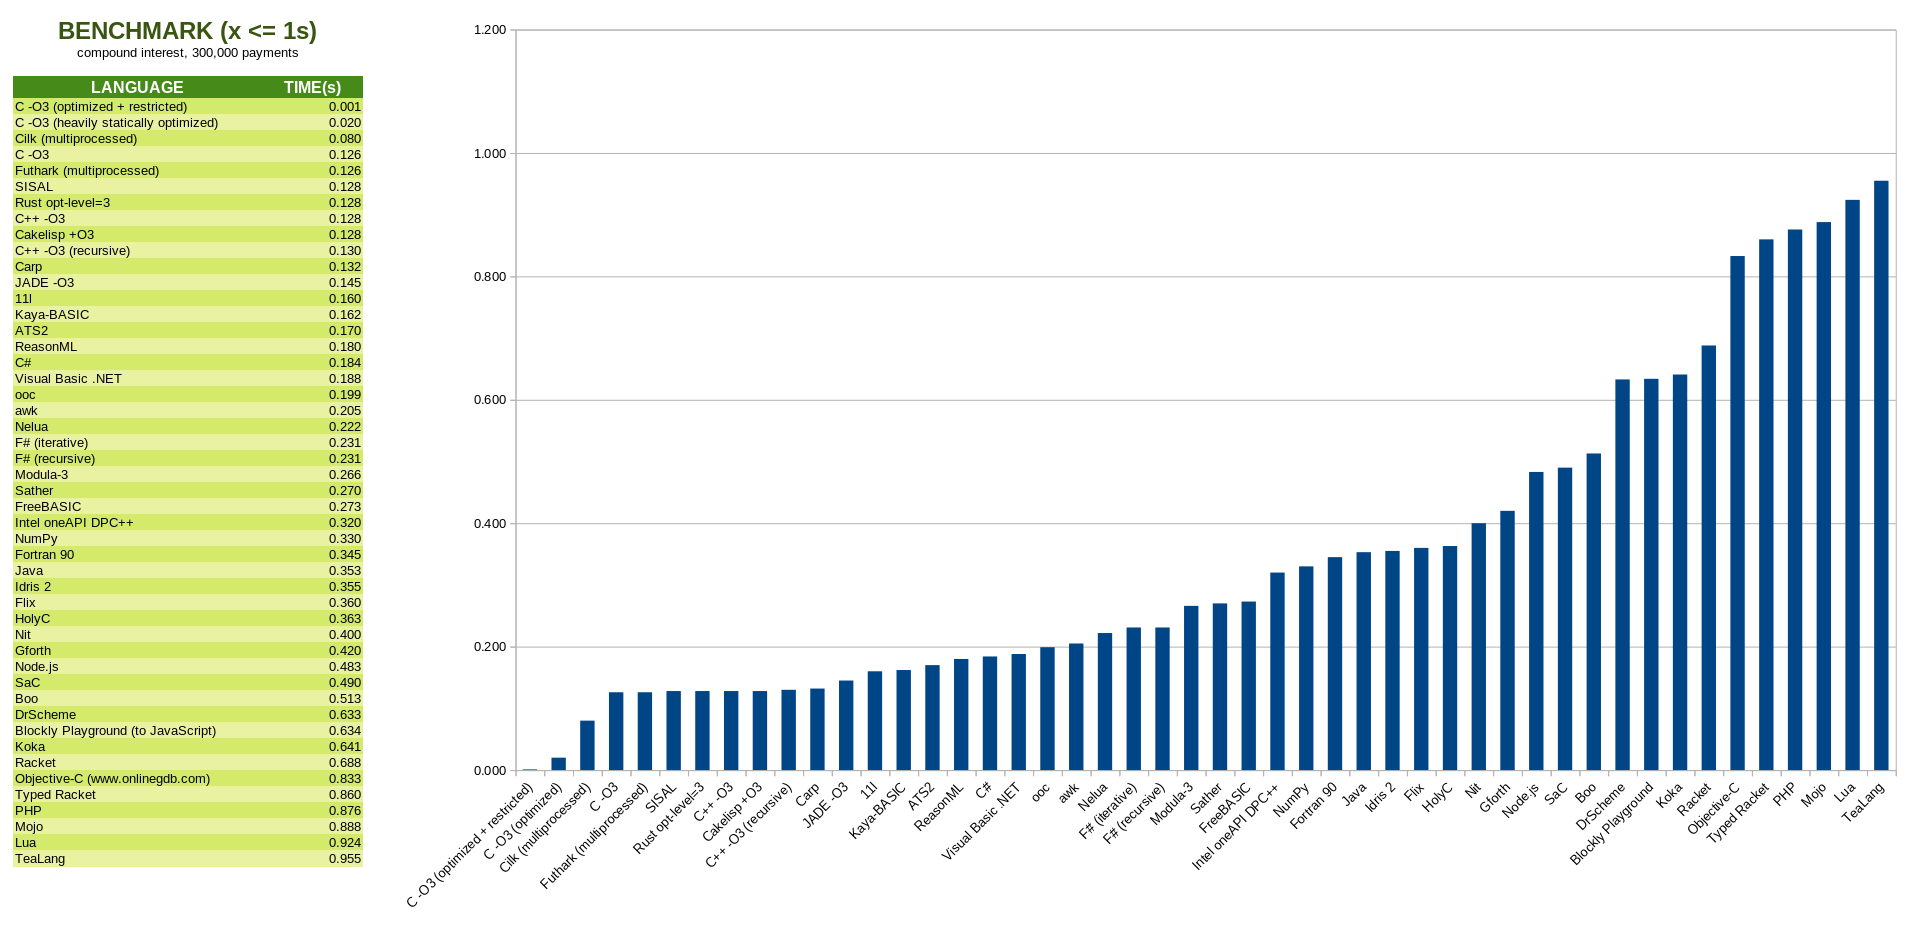
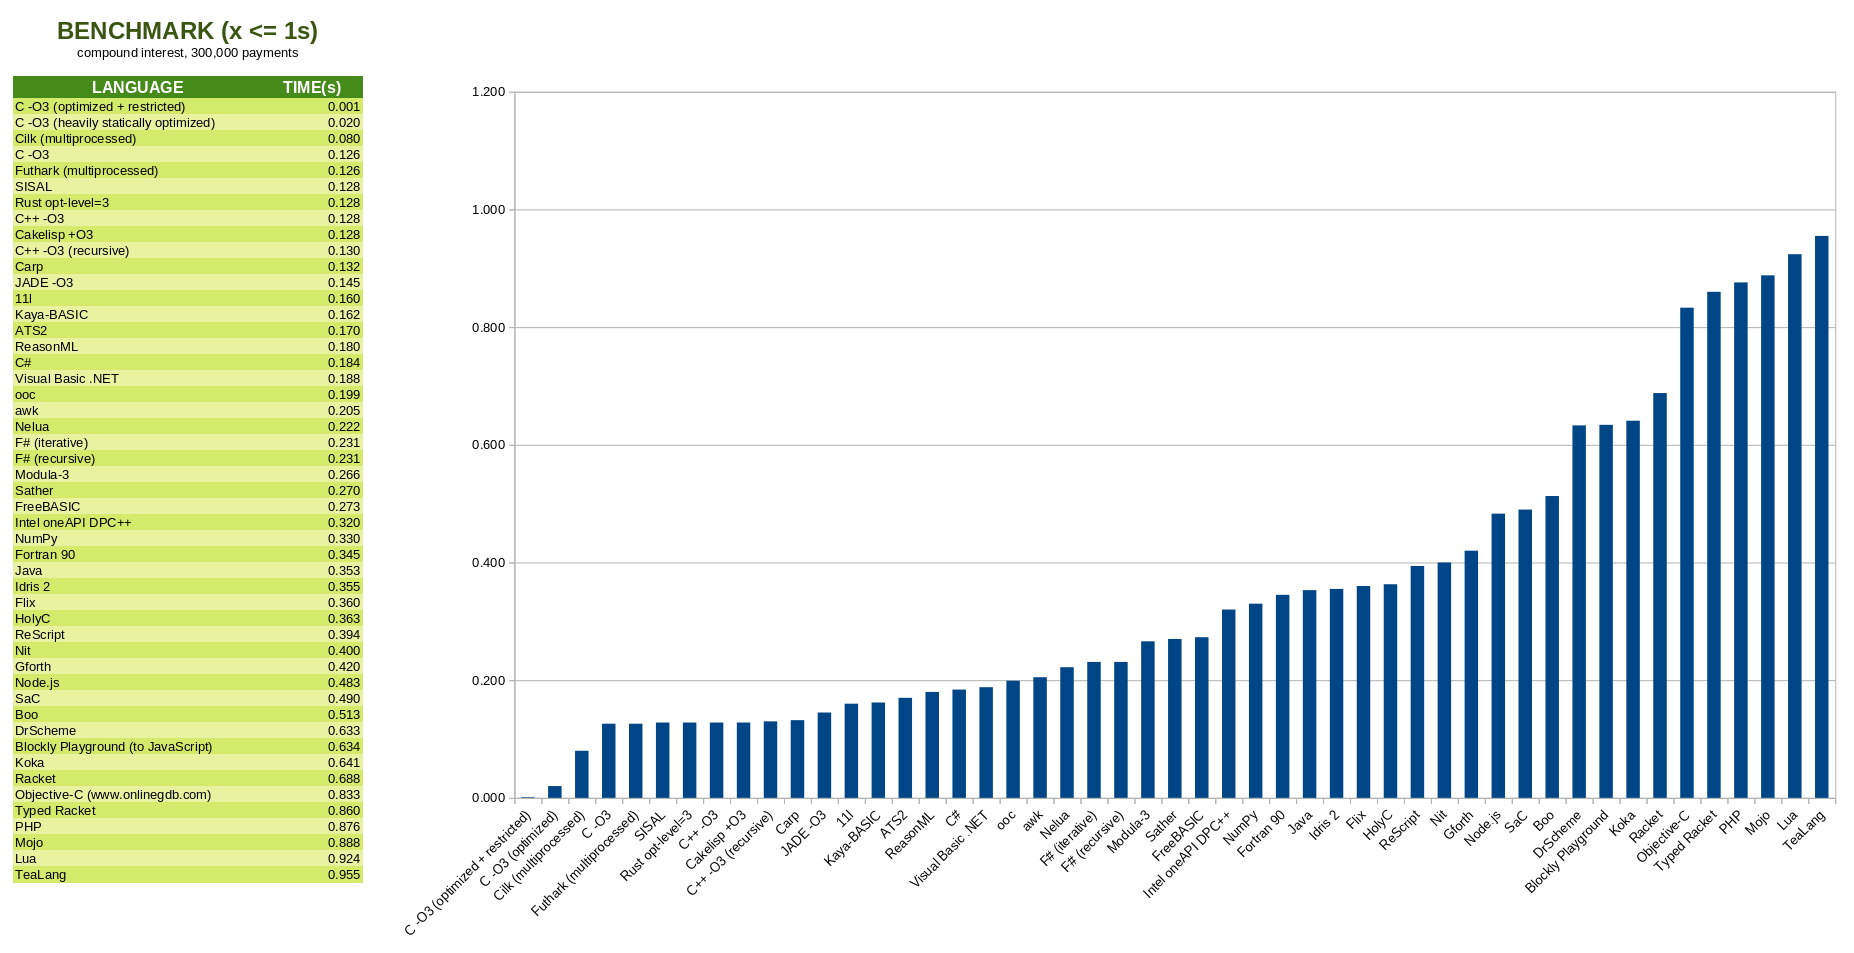
Add files via upload
//             06/11/2026: Js.log para Console.log; Js.Array.unsafe_get para Array.getUnsafe; removidos casos especiais; arrays escaláveis dinamicamente preenchidos
//                         tipificação explícita de funções e arrays; avaliados variáveis, parâmetros e cálculos
//                         funções recursivas agora permitem Tail Call Optimization (TCO)

diff --git a/SOLUCOES.md b/SOLUCOES.md
@@ -1322,7 +1322,7 @@ This is a list of links in this repository to solutions in different dialects, o
 
 [ProgramMercury.vb](ProgramMercury.vb)
 
-### ReScript (30/06/2024) 🔧 ♻ ✍
+### ReScript (30/06/2024) 🚀 🔧 ♻ ✍ ➰
 
 [Juros.res](Juros.res)
 
